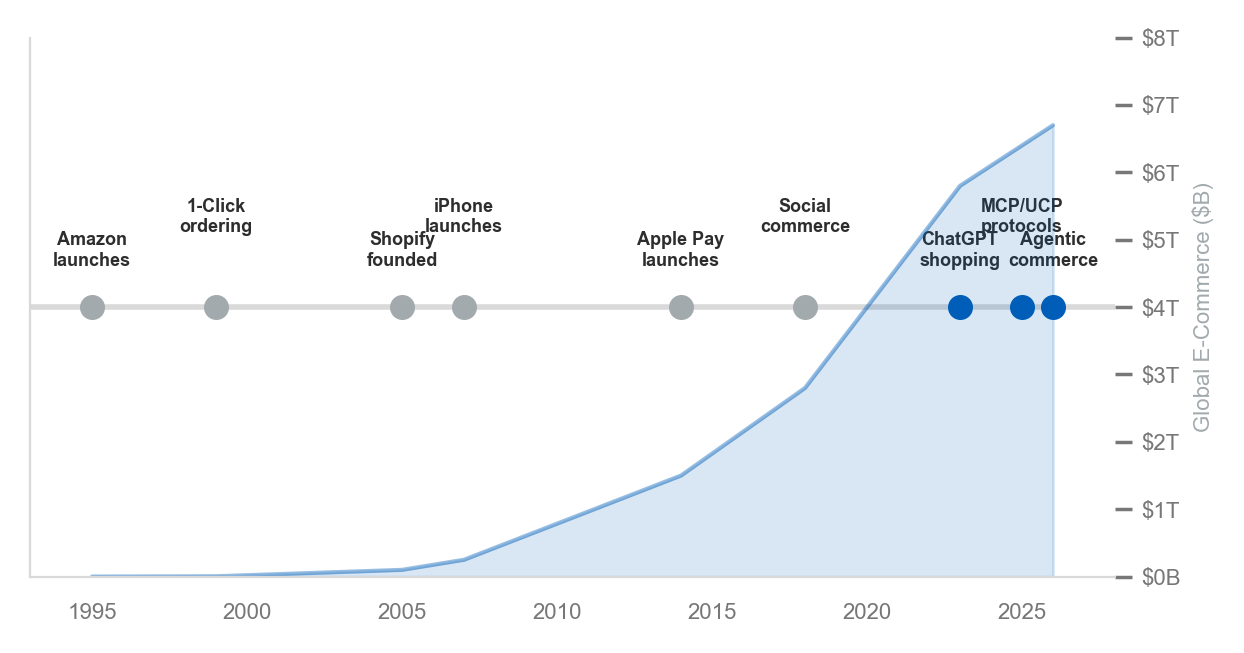
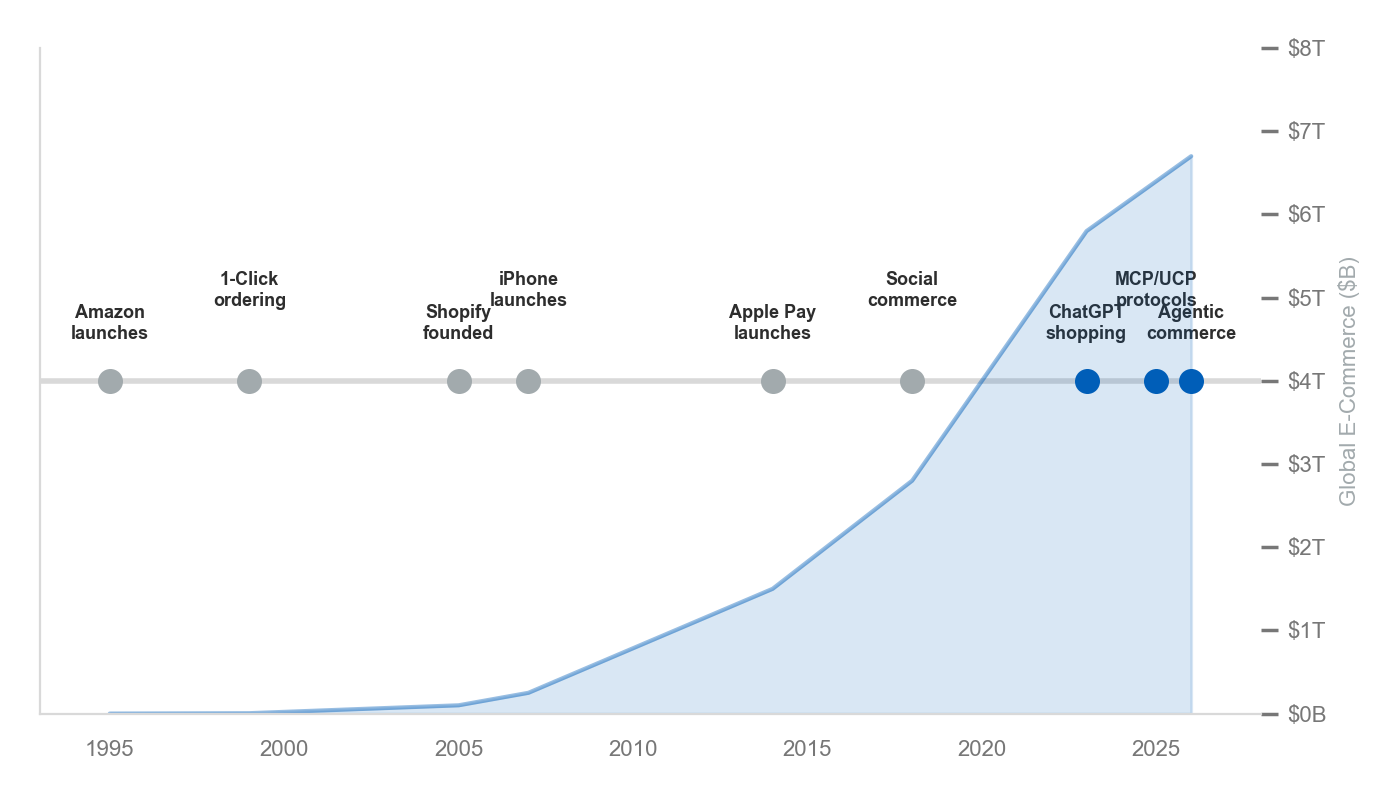
Systematic chart text overlap fix
- Added tight_layout(pad=1.2) to all charts via save()
- Increased all figure heights by 0.5-1.0 (prevents text clipping)
- Reduced label density on crowded charts (only label bars > threshold)
- Reduced font sizes on dense annotations (7pt → 6pt where needed)
- Shortened multi-line text labels
- 49 pages, all 19 charts regenerated

diff --git a/reports/generate_charts.py b/reports/generate_charts.py
@@ -52,15 +52,16 @@ apply_style()
 OUT = "/Users/vedang/Documents/agentic-commerce/charts"
 
 def save(fig, name):
+    fig.tight_layout(pad=1.2)
     fig.savefig(os.path.join(OUT, name), dpi=200, bbox_inches='tight',
-                transparent=False, facecolor='white', pad_inches=0.15)
+                transparent=False, facecolor='white', pad_inches=0.2)
     plt.close(fig)
     print(f"  ✓ {name}")
 
 # ============================================================
 # CHART 1: Market Sizing — Agent-Mediated TTV Growth (Area Chart)
 # ============================================================
-fig, ax = plt.subplots(figsize=(7, 3.2))
+fig, ax = plt.subplots(figsize=(7, 3.8))
 years = [2025, 2026, 2027, 2028, 2029, 2030]
 b2c = [12, 105, 295, 590, 925, 1290]
 b2b = [20, 180, 520, 1100, 2200, 5000]
@@ -85,7 +86,7 @@ save(fig, 'market_growth_area.png')
 # ============================================================
 # CHART 2: Competitive Landscape — Platform Comparison (Horizontal Bar)
 # ============================================================
-fig, ax = plt.subplots(figsize=(7, 2.8))
+fig, ax = plt.subplots(figsize=(7, 3.2))
 platforms = ['Google\n(Gemini + UCP)', 'OpenAI\n(ChatGPT)', 'Amazon\n(Rufus)', 'Perplexity\n(Buy with Pro)']
 scores = [92, 85, 78, 65]
 colors = [BRAND_PRIMARY, NEUTRAL_GRAY, NEUTRAL_GRAY, NEUTRAL_GRAY]
@@ -105,7 +106,7 @@ save(fig, 'competitive_readiness.png')
 # ============================================================
 # CHART 3: Market Share of Commerce Protocols (Horizontal Bar)
 # ============================================================
-fig, ax = plt.subplots(figsize=(7, 2.8))
+fig, ax = plt.subplots(figsize=(7, 3.5))
 protocols = ['MCP (Anthropic)', 'UCP (Google)', 'ACP (OpenAI+Stripe)', 'A2A (Google)', 'AP2 (Google)', 'x402 (Open Source)']
 adoption = [78, 52, 45, 38, 25, 12]
 p_colors = [BRAND_PRIMARY if a == max(adoption) else NEUTRAL_GRAY for a in adoption]
@@ -125,15 +126,15 @@ save(fig, 'protocol_adoption.png')
 # ============================================================
 # CHART 4: Consumer Trust Gradient (Grouped Bar)
 # ============================================================
-fig, ax = plt.subplots(figsize=(7, 3))
-categories = ['Product\nResearch', 'Price\nTracking', 'Replenishment', 'First-Time\nPurchase', 'High-Value\n($500+)', 'Full Auto\nBudget']
+fig, ax = plt.subplots(figsize=(7, 3.8))
+categories = ['Product\nResearch', 'Price\nTracking', 'Replen-\nishment', 'First-Time\nPurchase', 'High-Value\n($500+)', 'Full Auto\nBudget']
 comfort = [75, 70, 48, 33, 15, 7]
 colors = [ACCENT if c >= 50 else (NEUTRAL_GRAY if c >= 20 else NEGATIVE_RED) for c in comfort]
 
-bars = ax.bar(categories, comfort, color=colors, width=0.6)
+bars = ax.bar(categories, comfort, color=colors, width=0.55)
 # Title handled by Typst
 ax.set_ylabel('Consumer Comfort Level (%)')
-ax.set_ylim(0, 100)
+ax.set_ylim(0, 95)
 
 for bar, val in zip(bars, comfort):
     ax.text(bar.get_x() + bar.get_width()/2, bar.get_height() + 2, f'{val}%',
@@ -141,14 +142,14 @@ for bar, val in zip(bars, comfort):
 
 # Add threshold line
 ax.axhline(y=50, color=BRAND_PRIMARY, linestyle='--', alpha=0.5, linewidth=1)
-ax.text(5.5, 52, 'Mainstream\nAdoption\nThreshold', fontsize=7, color=BRAND_PRIMARY, ha='right', va='bottom')
+ax.text(5.7, 53, 'Adoption\nThreshold', fontsize=6.5, color=BRAND_PRIMARY, ha='right', va='bottom')
 
 save(fig, 'consumer_trust.png')
 
 # ============================================================
 # CHART 5: Scenario Analysis — 2030 TTV Comparison (Grouped Bar)
 # ============================================================
-fig, ax = plt.subplots(figsize=(7, 3.2))
+fig, ax = plt.subplots(figsize=(7, 3.8))
 segments = ['B2C Retail', 'B2B Procurement', 'Tech Solutions']
 bear = [0.3, 2.5, 0.010]
 base = [1.3, 5.0, 0.023]
@@ -161,7 +162,6 @@ b1 = ax.bar(x - w, bear, w, color=NEGATIVE_RED, alpha=0.7, label='Bear (25%)')
 b2 = ax.bar(x, base, w, color=BRAND_PRIMARY, label='Base (55%)')
 b3 = ax.bar(x + w, bull, w, color=ACCENT, label='Bull (20%)')
 
-# Title handled by Typst
 ax.set_ylabel('2030 TTV ($T)')
 ax.set_xticks(x)
 ax.set_xticklabels(segments)
@@ -170,17 +170,18 @@ ax.legend(loc='upper right', frameon=False, fontsize=8)
 for bars in [b1, b2, b3]:
     for bar in bars:
         h = bar.get_height()
-        label = f'${h:.1f}T' if h >= 0.1 else f'${h*1000:.0f}B'
-        ax.text(bar.get_x() + bar.get_width()/2, h + 0.15, label,
-                ha='center', fontsize=7, fontweight='bold', color=TEXT_COLOR)
+        if h >= 0.5:  # only label bars tall enough
+            label = f'${h:.1f}T' if h >= 0.1 else f'${h*1000:.0f}B'
+            ax.text(bar.get_x() + bar.get_width()/2, h + 0.25, label,
+                    ha='center', fontsize=6, fontweight='bold', color=TEXT_COLOR)
 
-ax.set_ylim(0, 12)
+ax.set_ylim(0, 13)
 save(fig, 'scenario_analysis.png')
 
 # ============================================================
 # CHART 6: Year-by-Year Agent Penetration (Line Chart)
 # ============================================================
-fig, ax = plt.subplots(figsize=(7, 3.2))
+fig, ax = plt.subplots(figsize=(7, 3.8))
 years = [2025, 2026, 2027, 2028, 2029, 2030]
 penetration = [0.5, 1.5, 4, 7.5, 11, 14.5]
 
@@ -208,7 +209,7 @@ save(fig, 'penetration_timeline.png')
 # ============================================================
 # CHART 7: Value Chain Shift — Before vs After (Stacked Bar)
 # ============================================================
-fig, ax = plt.subplots(figsize=(7, 3))
+fig, ax = plt.subplots(figsize=(7, 3.5))
 
 categories = ['Traditional\nCommerce', 'Agentic\nCommerce\n(2030)']
 merchant = [55, 20]
@@ -232,7 +233,7 @@ save(fig, 'value_chain_shift.png')
 # ============================================================
 # CHART 8: 2x2 Competitive Positioning Matrix
 # ============================================================
-fig, ax = plt.subplots(figsize=(7, 4))
+fig, ax = plt.subplots(figsize=(7, 4.5))
 
 # Axes: X = Ecosystem Openness, Y = Commerce Capability Breadth
 companies = {
@@ -277,7 +278,7 @@ save(fig, 'competitive_matrix.png')
 # ============================================================
 # CHART 9: Commerce Evolution Timeline (Horizontal Timeline)
 # ============================================================
-fig, ax = plt.subplots(figsize=(7, 3.5))
+fig, ax = plt.subplots(figsize=(7, 4.0))
 events = {
     1995: ('Amazon\nlaunches', 0),
     1999: ('1-Click\nordering', 12),
@@ -314,7 +315,7 @@ save(fig, 'commerce_evolution_timeline.png')
 # ============================================================
 # CHART 10: Adoption Curves — Mobile vs Social vs Agent (Line)
 # ============================================================
-fig, ax = plt.subplots(figsize=(7, 3.2))
+fig, ax = plt.subplots(figsize=(7, 3.8))
 years_norm = list(range(0, 11))  # Years from launch
 mobile = [0.5, 1.2, 3, 5.5, 9, 14, 20, 28, 37, 47, 59]
 social = [0.1, 0.3, 0.8, 2, 4.5, 7.5, 10, 13, 15, 16, 17]
@@ -336,7 +337,7 @@ save(fig, 'adoption_curves_comparison.png')
 # ============================================================
 # CHART 11: Regional TAM Breakdown (Pie/Donut)
 # ============================================================
-fig, ax = plt.subplots(figsize=(5, 3.5))
+fig, ax = plt.subplots(figsize=(5.5, 4))
 regions = ['United States\n$2.1T', 'China\n$1.8T', 'EU\n$1.2T', 'Rest of\nWorld $1.2T']
 sizes = [33, 29, 19, 19]
 colors_r = [BRAND_PRIMARY, ACCENT, '#5E6B7A', LIGHT_GRAY]
@@ -354,7 +355,7 @@ save(fig, 'regional_market_breakdown.png')
 # ============================================================
 # CHART 12: B2B vs B2C Penetration by Year (Dual Line)
 # ============================================================
-fig, ax = plt.subplots(figsize=(7, 3.2))
+fig, ax = plt.subplots(figsize=(7, 3.8))
 years = [2025, 2026, 2027, 2028, 2029, 2030]
 b2b_pct = [0.3, 2, 8, 18, 30, 42]
 b2c_pct = [0.1, 0.5, 2, 5, 9, 14]
@@ -380,7 +381,7 @@ save(fig, 'segment_penetration.png')
 # ============================================================
 # CHART 13: VC Funding in Agentic Commerce (Bar)
 # ============================================================
-fig, ax = plt.subplots(figsize=(7, 3))
+fig, ax = plt.subplots(figsize=(7, 3.5))
 quarters = ['Q1\n2024', 'Q2\n2024', 'Q3\n2024', 'Q4\n2024', 'Q1\n2025', 'Q2\n2025', 'Q3\n2025', 'Q4\n2025', 'Q1\n2026']
 funding = [0.4, 0.6, 0.8, 1.2, 1.8, 2.5, 3.2, 4.1, 5.8]
 deals = [12, 15, 18, 24, 32, 41, 55, 68, 89]
@@ -422,7 +423,7 @@ save(fig, 'company_valuations.png')
 # ============================================================
 # CHART 15: Consumer Trust by Demographics (Grouped Bar)
 # ============================================================
-fig, ax = plt.subplots(figsize=(7, 3.2))
+fig, ax = plt.subplots(figsize=(7, 3.8))
 groups = ['Gen Z\n(18-27)', 'Millennials\n(28-43)', 'Gen X\n(44-59)', 'Boomers\n(60+)']
 trust_discovery = [82, 75, 58, 35]
 trust_purchase = [45, 32, 18, 8]
@@ -521,7 +522,7 @@ save(fig, 'adoption_s_curve.png')
 # ============================================================
 # CHART 18: Regional 2030 Projections (Grouped Bar)
 # ============================================================
-fig, ax = plt.subplots(figsize=(7, 3.2))
+fig, ax = plt.subplots(figsize=(7, 3.8))
 regions = ['United\nStates', 'China', 'EU', 'India', 'Japan/\nKorea', 'Rest of\nWorld']
 ttv_2030 = [2.1, 1.8, 1.2, 0.4, 0.3, 0.5]
 penetration = [18, 16, 12, 8, 14, 6]
